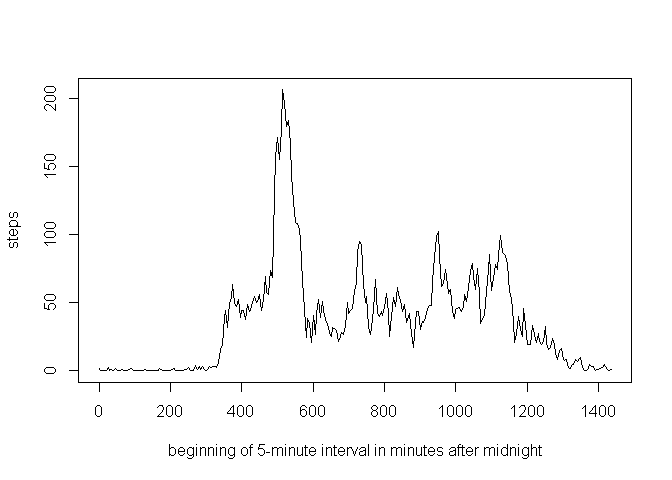
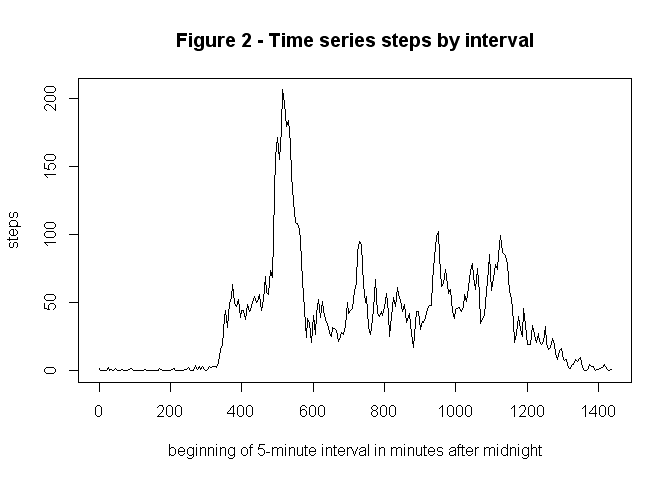
Updated markdown to include some discussion of analysis results

Changed region(s): [[0.4062, 0.0625, 0.8125, 0.125], [0.25, 0.0625, 0.375, 0.125]]

diff --git a/PA1_template.html b/PA1_template.html
@@ -79,13 +79,26 @@ data&lt;- read.csv(dataFile)</code></pre>
 detach(data)
 
 attach(sOnDate)
-      hist(steps)</code></pre>
[1 lines of base64/hex data omitted]
+      hist(steps ,main = &quot;Figure 1 - Total steps taken each day&quot;)</code></pre>
[1 lines of base64/hex data omitted]
 <pre class="r"><code>      paste(&quot;Mean of total steps taken each day:&quot;, mean(steps))</code></pre>
 <pre><code>## [1] &quot;Mean of total steps taken each day: 10766.1886792453&quot;</code></pre>
 <pre class="r"><code>      paste(&quot;Median of total steps taken each day:&quot;, median(steps))</code></pre>
 <pre><code>## [1] &quot;Median of total steps taken each day: 10765&quot;</code></pre>
 <pre class="r"><code>detach(sOnDate)</code></pre>
+<div id="analysis-results" class="section level3">
+<h3>Analysis results:</h3>
+<div id="mean-of-total-steps-taken-each-day-10766.1886792453" class="section level4">
+<h4>     Mean of total steps taken each day: 10766.1886792453</h4>
+</div>
+<div id="median-of-total-steps-taken-each-day-10765" class="section level4">
+<h4>     Median of total steps taken each day: 10765</h4>
+</div>
+<div id="for-histogram-of-total-steps-taken-each-day-see-accompanying-figure-1" class="section level4">
+<h4>     For histogram of total steps taken each day, see accompanying Figure 1</h4>
+<p><br></p>
+</div>
+</div>
 </div>
 <div id="what-is-the-average-daily-activity-pattern" class="section level2">
 <h2>What is the average daily activity pattern?</h2>
@@ -109,8 +122,9 @@ attach(sInIntervalAvg)
       #     convert interval hmm to minutes using by adding modulo(interval,100) to 60*floor(interval/100)
       #
       plot( (60 * interval %/%100 + (interval %%100) ), steps ,type=&quot;l&quot; 
-            , xlab=&quot;beginning of 5-minute interval in minutes after midnight&quot;)</code></pre>
[1 lines of base64/hex data omitted]
+            , xlab=&quot;beginning of 5-minute interval in minutes after midnight&quot;
+            , main = &quot;Figure 2 - Time series steps by interval&quot;)</code></pre>
[1 lines of base64/hex data omitted]
 <pre class="r"><code>      #
       ### previous &lt;plot(interval, steps ,type=&quot;l&quot;)&gt; was skewed
 detach(sInIntervalAvg)
@@ -133,6 +147,16 @@ detach(sInIntervalAvg)
 <pre><code>## [1] &quot;5-minute interval of day (on 24-hour clock) during which most steps taken begins at: 8:35&quot;</code></pre>
 <pre class="r"><code>      #
       # previous &lt;paste(&quot;5-minute interval during day when most steps taken on average:&quot;, intervalMaxSteps)&gt; skewed</code></pre>
+<div id="analysis-results-1" class="section level3">
+<h3>Analysis results:</h3>
+<div id="minute-interval-of-day-on-24-hour-clock-during-which-most-steps-taken-begins-at-835" class="section level4">
+<h4>     5-minute interval of day (on 24-hour clock) during which most steps taken begins at: 8:35</h4>
+</div>
+<div id="for-time-series-showing-steps-averaged-across-days-by-5-minute-interval-see-accompanying-figure-2" class="section level4">
+<h4>     For time series showing steps averaged across days by 5-minute interval, see accompanying Figure 2</h4>
+<p><br></p>
+</div>
+</div>
 </div>
 <div id="imputing-missing-values" class="section level2">
 <h2>Imputing missing values</h2>
@@ -171,13 +195,41 @@ data2&lt;- rbind(dataNotNA, data1)</code></pre>
 detach(data2)
 
 attach(sOnDate2)
-      hist(steps)</code></pre>
[1 lines of base64/hex data omitted]
+      hist(steps ,main = &quot;Figure 3 - Total steps taken each day after imputed data added&quot;)</code></pre>
[1 lines of base64/hex data omitted]
 <pre class="r"><code>      paste(&quot;Mean of total steps taken each day:&quot;, mean(steps))</code></pre>
 <pre><code>## [1] &quot;Mean of total steps taken each day: 10766.1886792453&quot;</code></pre>
 <pre class="r"><code>      paste(&quot;Median of total steps taken each day:&quot;, median(steps))</code></pre>
 <pre><code>## [1] &quot;Median of total steps taken each day: 10766.1886792453&quot;</code></pre>
 <pre class="r"><code>detach(sOnDate2)</code></pre>
+<div id="analysis-results-2" class="section level3">
+<h3>Analysis results:</h3>
+<div id="number-of-missing-values-for-steps-2304" class="section level4">
+<h4>     Number of missing values (for steps): 2304</h4>
+</div>
+<div id="mean-of-total-steps-taken-each-day-after-imputed-data-added-10766.1886792453" class="section level4">
+<h4>     Mean of total steps taken each day after imputed data added: 10766.1886792453</h4>
+</div>
+<div id="median-of-total-steps-taken-each-day-after-imputed-data-added-10766.1886792453" class="section level4">
+<h4>     Median of total steps taken each day after imputed data added: 10766.1886792453</h4>
+</div>
+<div id="for-histogram-of-total-steps-taken-each-day-after-imputed-data-added-see-accompanying-figure-3" class="section level4">
+<h4>     For histogram of total steps taken each day after imputed data added, see accompanying Figure 3</h4>
+<div id="the-mean-value-does-not-differ-after-imputed-data-added" class="section level5">
+<h5>       The mean value does not differ after imputed data added</h5>
+</div>
+<div id="however-the-median-value-moves-closer-to-in-this-case-exactly-to-the-mean" class="section level5">
+<h5>       However, the median value moves closer to (in this case exactly to) the mean</h5>
+</div>
+<div id="comparing-histograms-in-figure-3-and-figure-2-also-shows-impact-of-adding-imputed-data" class="section level5">
+<h5>       Comparing histograms in Figure 3 and Figure 2 also shows impact of adding imputed data</h5>
+</div>
+<div id="the-distribution-is-changed-shown-by-the-rise-in-bar-associated-with-the-mean-value" class="section level5">
+<h5>       The distribution is changed shown by the rise in bar associated with the mean value</h5>
+<p><br></p>
+</div>
+</div>
+</div>
 </div>
 <div id="are-there-differences-in-activity-patterns-between-weekdays-and-weekends" class="section level2">
 <h2>Are there differences in activity patterns between weekdays and weekends?</h2>

diff --git a/PA1_template.md b/PA1_template.md
@@ -29,7 +29,7 @@ attach(data)
 detach(data)
 
 attach(sOnDate)
-      hist(steps)
+      hist(steps ,main = "Figure 1 - Total steps taken each day")
 ```
 
 ![](PA1_template_files/figure-html/unnamed-chunk-2-1.png) 
@@ -54,6 +54,12 @@ attach(sOnDate)
 detach(sOnDate)
 ```
   
+### Analysis results:
+#### &nbsp;&nbsp;&nbsp;&nbsp; Mean of total steps taken each day: 10766.1886792453
+#### &nbsp;&nbsp;&nbsp;&nbsp; Median of total steps taken each day: 10765
+#### &nbsp;&nbsp;&nbsp;&nbsp; For histogram of total steps taken each day, see accompanying Figure 1
+<br>
+
   
 ## What is the average daily activity pattern?  
   (III) 1. Time series plot of interval (x-axis) and average steps taken, across days (y-axis)  
@@ -73,7 +79,8 @@ attach(sInIntervalAvg)
       #     convert interval hmm to minutes using by adding modulo(interval,100) to 60*floor(interval/100)
       #
       plot( (60 * interval %/%100 + (interval %%100) ), steps ,type="l" 
-            , xlab="beginning of 5-minute interval in minutes after midnight")
+            , xlab="beginning of 5-minute interval in minutes after midnight"
+            , main = "Figure 2 - Time series steps by interval")
 ```
 
 ![](PA1_template_files/figure-html/unnamed-chunk-3-1.png) 
@@ -108,7 +115,12 @@ detach(sInIntervalAvg)
       #
       # previous <paste("5-minute interval during day when most steps taken on average:", intervalMaxSteps)> skewed
 ```
-  
+
+### Analysis results:
+#### &nbsp;&nbsp;&nbsp;&nbsp; 5-minute interval of day (on 24-hour clock) during which most steps taken begins at: 8:35
+#### &nbsp;&nbsp;&nbsp;&nbsp; For time series showing steps averaged across days by 5-minute interval, see accompanying Figure 2
+<br>
+
   
 ## Imputing missing values
   1. Report number of missing values in dataset (i.e. the total number of rows with NAs)  
@@ -159,7 +171,7 @@ attach(data2)
 detach(data2)
 
 attach(sOnDate2)
-      hist(steps)
+      hist(steps ,main = "Figure 3 - Total steps taken each day after imputed data added")
 ```
 
 ![](PA1_template_files/figure-html/unnamed-chunk-6-1.png) 
@@ -184,6 +196,18 @@ attach(sOnDate2)
 detach(sOnDate2)
 ```
 
+### Analysis results:
+#### &nbsp;&nbsp;&nbsp;&nbsp; Number of missing values (for steps): 2304
+#### &nbsp;&nbsp;&nbsp;&nbsp; Mean of total steps taken each day after imputed data added: 10766.1886792453
+#### &nbsp;&nbsp;&nbsp;&nbsp; Median of total steps taken each day after imputed data added: 10766.1886792453
+#### &nbsp;&nbsp;&nbsp;&nbsp; For histogram of total steps taken each day after imputed data added, see accompanying Figure 3
+##### &nbsp;&nbsp;&nbsp;&nbsp;&nbsp;&nbsp; The mean value does not differ after imputed data added
+##### &nbsp;&nbsp;&nbsp;&nbsp;&nbsp;&nbsp; However, the median value moves closer to (in this case exactly to) the mean
+##### &nbsp;&nbsp;&nbsp;&nbsp;&nbsp;&nbsp; Comparing histograms in Figure 3 and Figure 2 also shows impact of adding imputed data
+##### &nbsp;&nbsp;&nbsp;&nbsp;&nbsp;&nbsp; The distribution is changed shown by the rise in bar associated with the mean value
+<br>
+
+  
 ## Are there differences in activity patterns between weekdays and weekends?
   1. Create factor variable with levels "weekday" and "weekend"
   2. Create panel plot "weekday"" versus "weekend": line plot of y=average steps and x=5-minute intervals (like III.1.)
